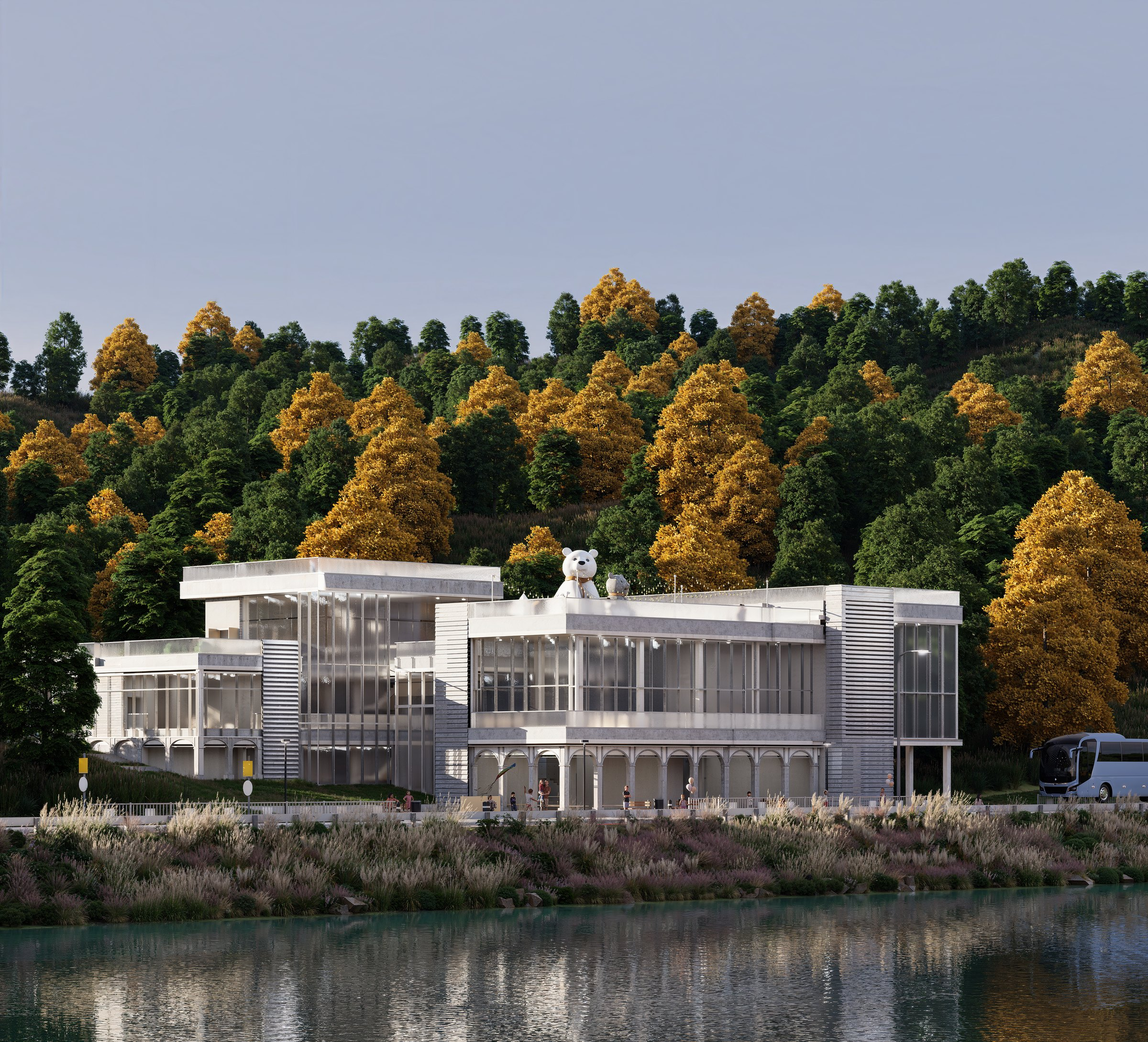
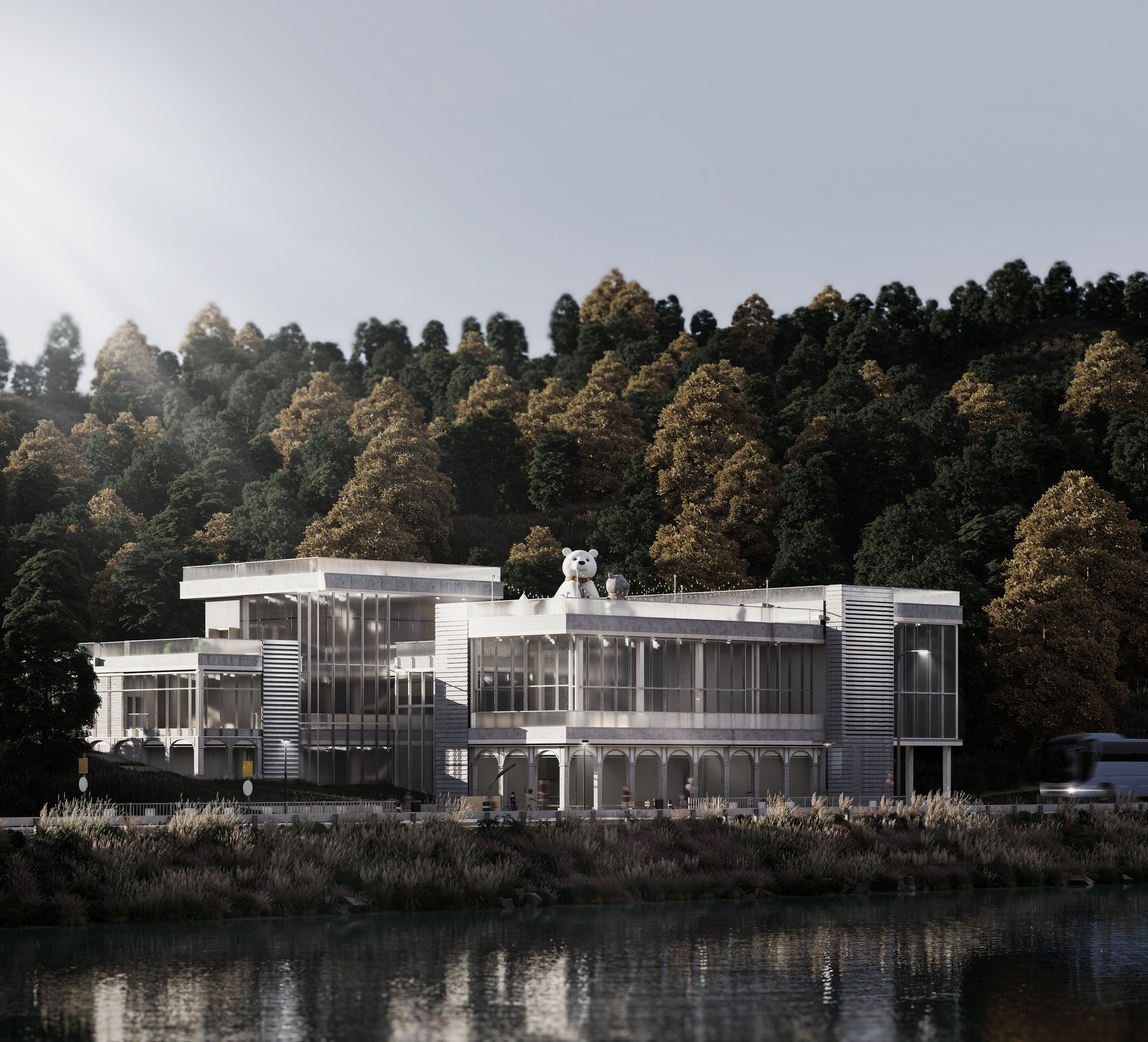
Natural Palette: 리터칭한 렌더 4장으로 교체, studio 카드는 입구 홀(이게찐), 작품 페이지 대표는 메인샷

diff --git a/assets/js/data.js b/assets/js/data.js
@@ -2532,7 +2532,7 @@ const SITE = {
     tools: "",
     cover: "assets/img/natural-palette/render-main.jpg", // 2026-11-24 사용자 요청: 렌더 메인샷을 대표사진으로
     coverR: 1.1019,
-    thumb: "assets/img/natural-palette/render-main.jpg",
+    thumb: "assets/img/natural-palette/render-entrance.jpg", // 2026-11-24 사용자 요청: studio 카드 = 이게찐(입구 홀), 작품 페이지 대표 = 메인샷
     coverCaption: "The kindergarten across the lake, the forest behind",
     summary:
       "A kindergarten on a slope that falls about 14 m from the forest to the lake. The slope is set into two grounds — the lake ground at the level of the road and the forest ground a floor above — and a three-storey building is slid in between, carved by a hall and a light well so that children on every floor see and hear each other. What is left of the slope becomes six play grounds — lake, deck, sand, garden, small forest and forest — climbing one step at a time. Reinforced concrete, wrapped in ipe.",
